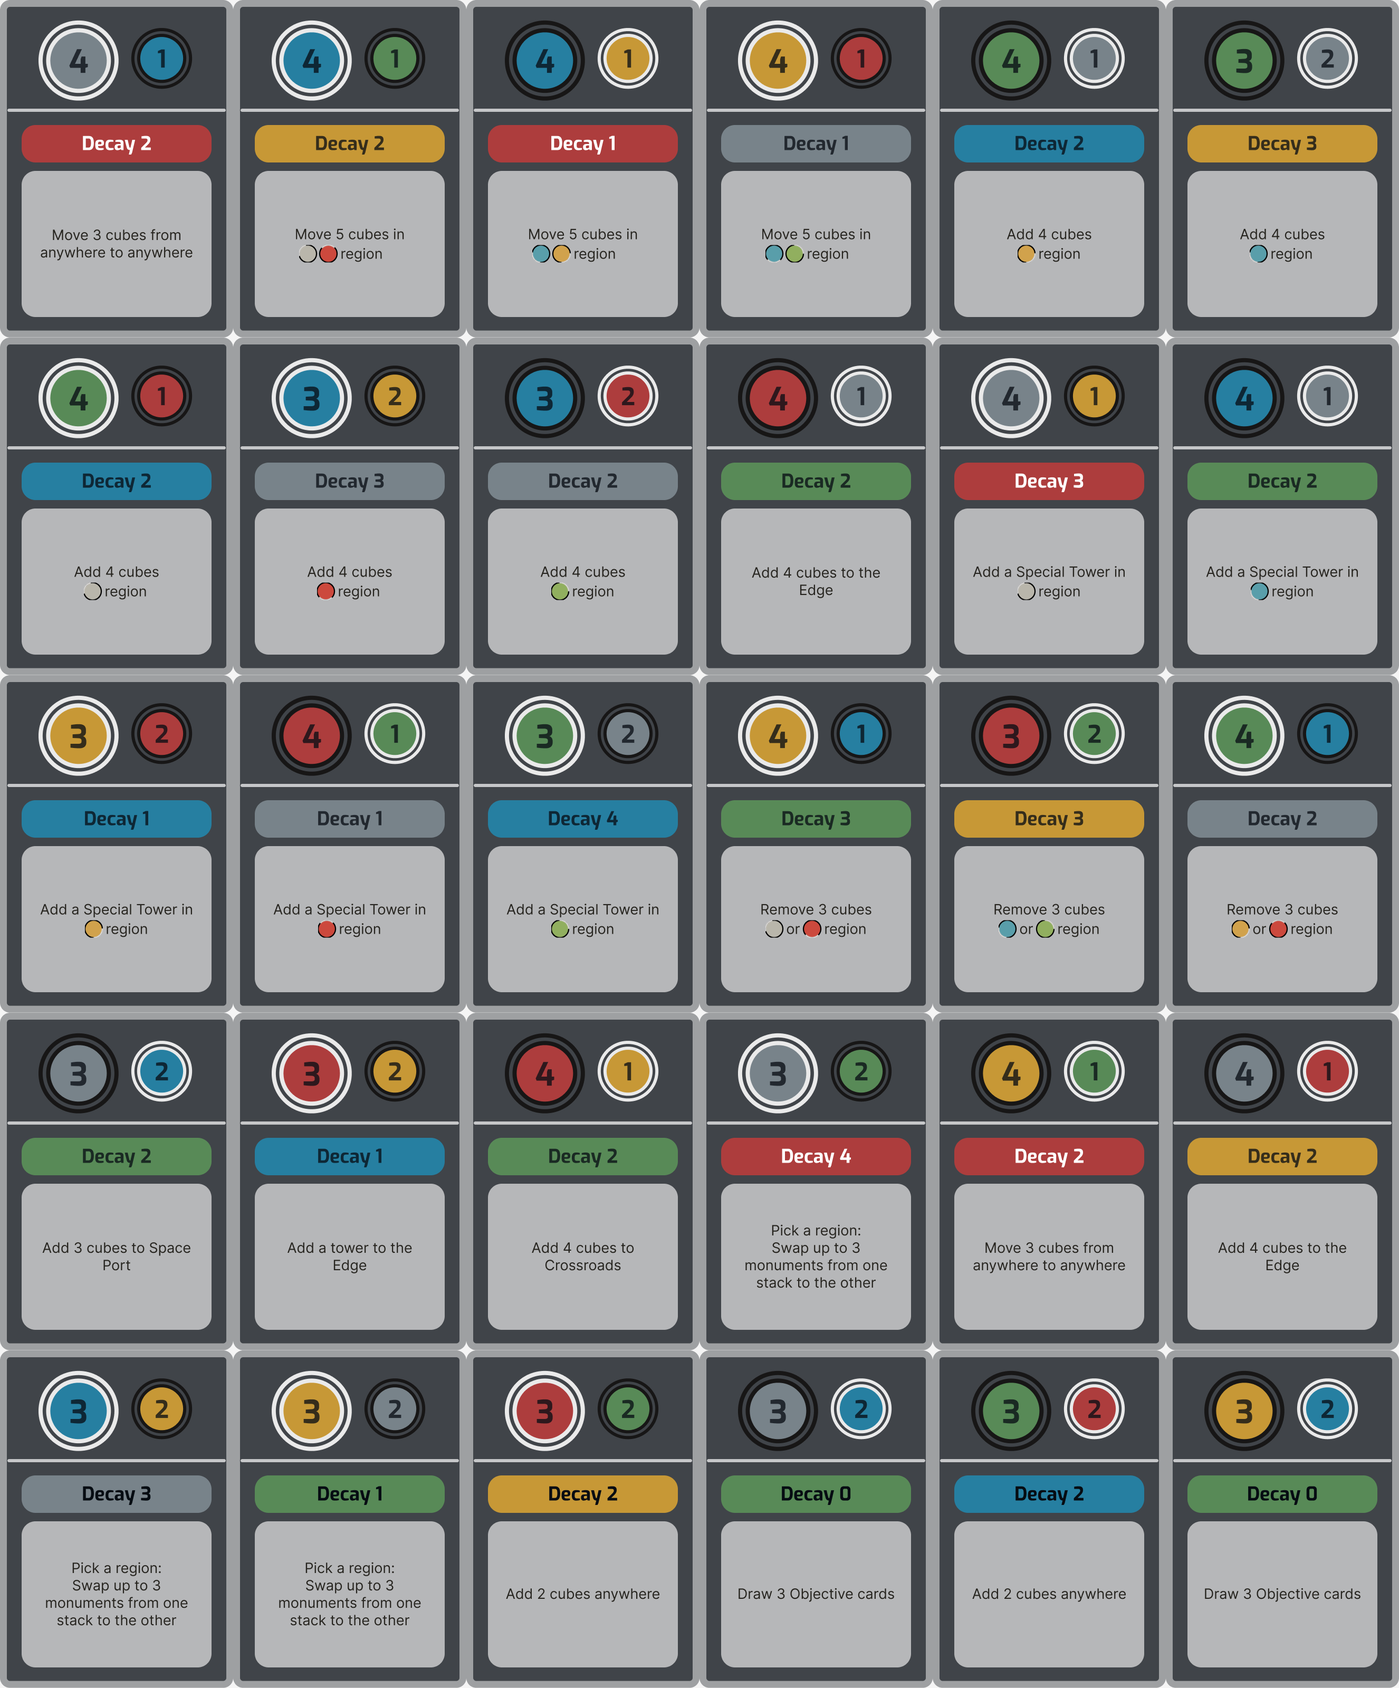
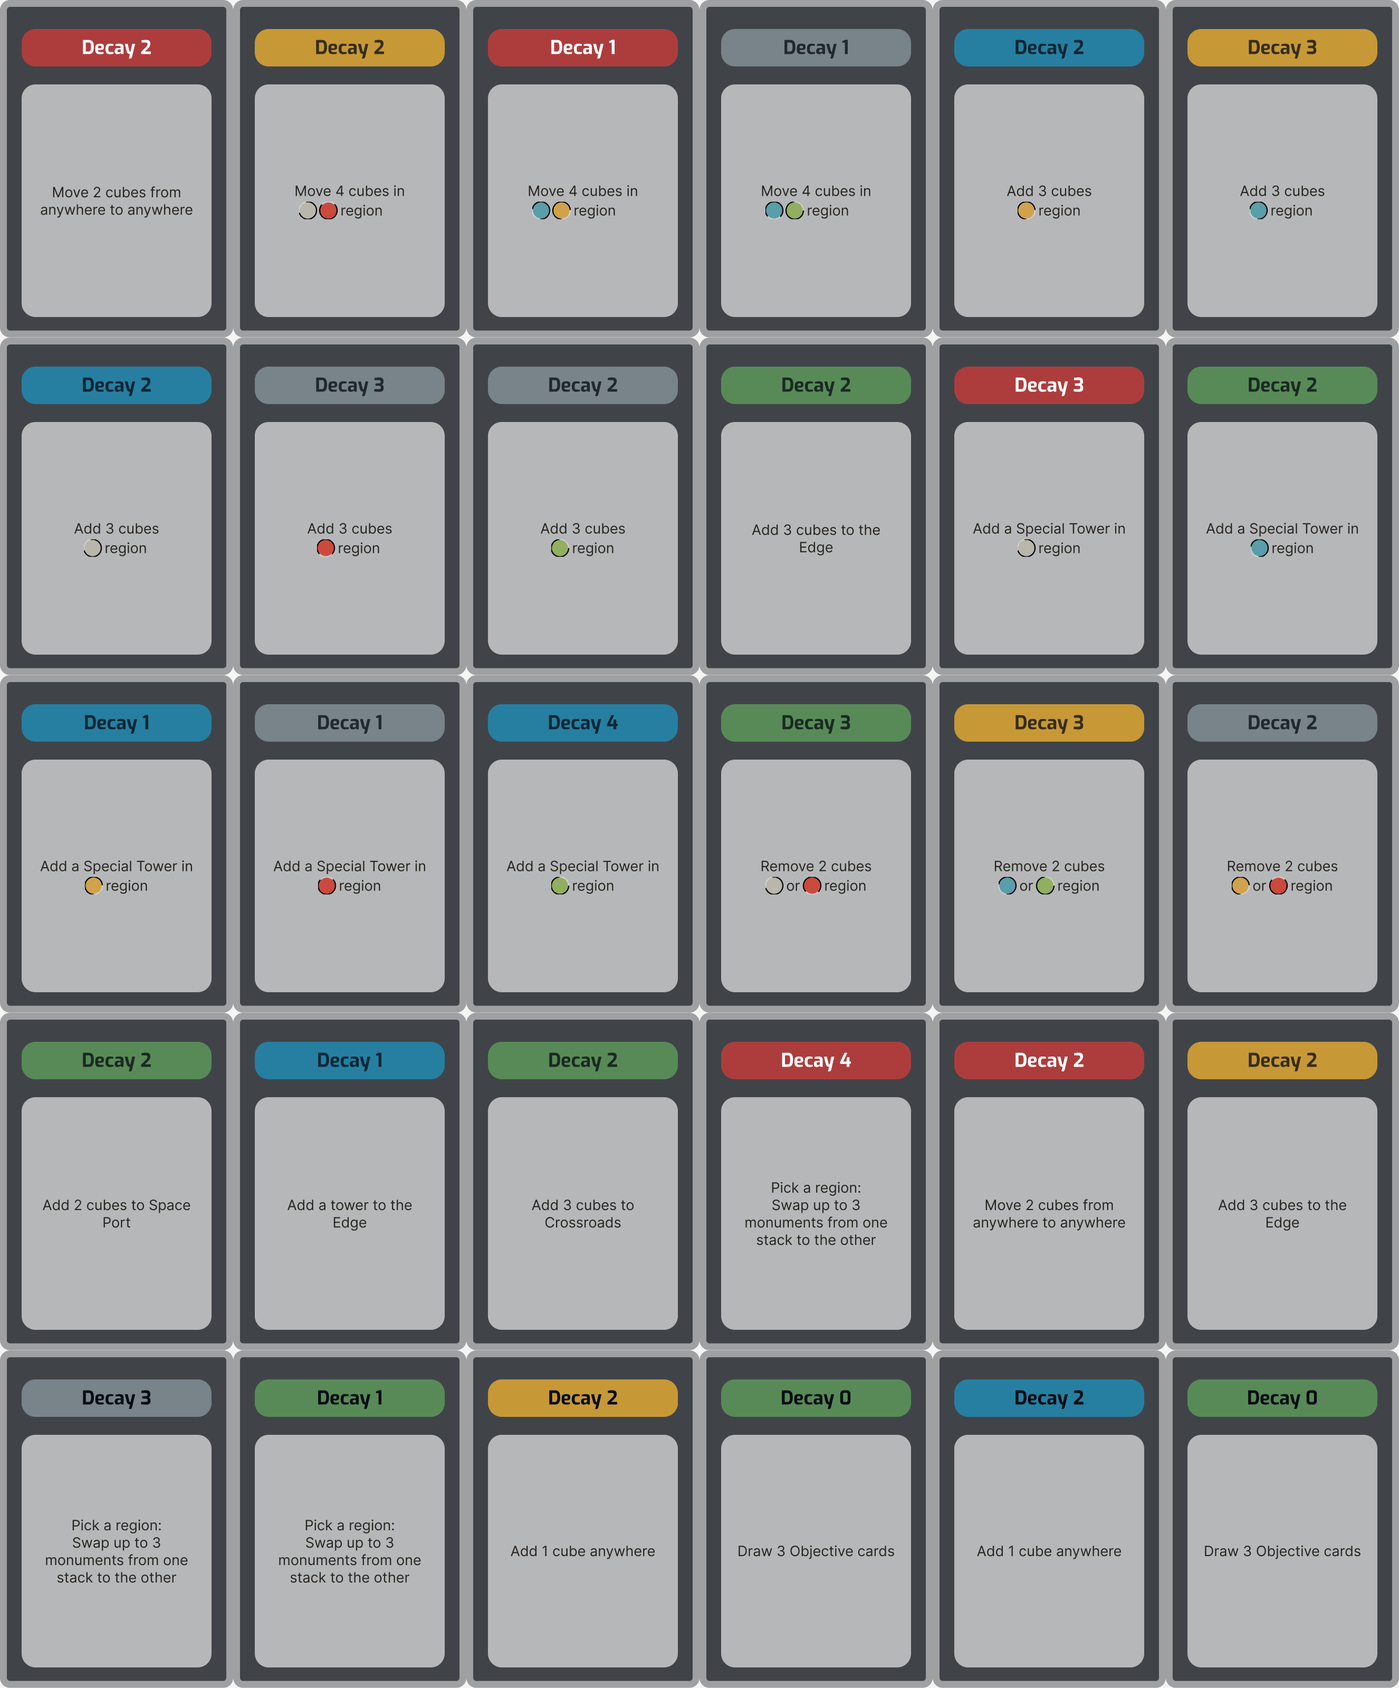
Publish Page 7 assets and four dice textures

diff --git a/docs/catalog.js b/docs/catalog.js
@@ -1,1 +1,1 @@
-window.FRONTIER_CATALOG = {"source": "Figma Page 6 Game components slice 663:2418", "boards": [{"title": "Main board", "figmaId": "663:2534", "path": "assets/boards/board-main-e46ceed54f.png", "width": 4096, "height": 2960, "revision": "1a46714353"}], "cards": [{"title": "Action Guide", "figmaId": "663:686", "path": "assets/cards/card-action-guide-6323e6fee4.png", "width": 506, "height": 729, "revision": "32b6b7b4d4"}, {"title": "Region Bonus Guide", "figmaId": "663:736", "path": "assets/cards/card-region-bonus-guide-800eb32bd9.png", "width": 759, "height": 1098, "revision": "9f711bb71c"}], "references": [], "decks": [{"title": "Monuments", "figmaId": "663:1580", "count": 30, "columns": 6, "rows": 5, "cardWidth": 442, "cardHeight": 640, "face": {"path": "assets/decks/monuments-faces-d44fdccb0e.png", "width": 2652, "height": 3200, "revision": "c99434280e"}, "back": {"path": "assets/decks/monuments-back-a65fba90e2.png", "width": 442, "height": 640, "revision": "abfd3f1891"}}, {"title": "Objectives", "figmaId": "663:767", "count": 18, "columns": 6, "rows": 3, "cardWidth": 388, "cardHeight": 519, "face": {"path": "assets/decks/objectives-faces-4d91a50427.png", "width": 2328, "height": 1557, "revision": "32e56861a8"}, "back": {"path": "assets/decks/objectives-back-c08c78cc67.png", "width": 388, "height": 519, "revision": "cc7db17312"}}, {"title": "Specials", "figmaId": "663:2266", "count": 19, "columns": 5, "rows": 4, "cardWidth": 443, "cardHeight": 704, "face": {"path": "assets/decks/specials-faces-adc1172863.png", "width": 2215, "height": 2816, "revision": "25ad4c82e8"}, "back": {"path": "assets/decks/specials-back-0b946676e3.png", "width": 443, "height": 704, "revision": "a348395311"}}], "tokens": [{"title": "Build 4", "figmaId": "663:652", "path": "assets/tokens/action-tile-1-fb100c9aa5.png", "width": 426, "height": 426, "revision": "989ae47648"}, {"title": "Region Bonus", "figmaId": "663:683", "path": "assets/tokens/action-tile-2-7107aa55c8.png", "width": 426, "height": 426, "revision": "649b646ee8"}, {"title": "Build 3 — Blue", "figmaId": "663:508", "path": "assets/tokens/action-tile-3.png", "width": 427, "height": 427, "revision": "c6c06dbd7d"}, {"title": "Action Upgrade +2", "figmaId": "663:677", "path": "assets/tokens/action-tile-6-813e8438d5.png", "width": 426, "height": 426, "revision": "d2a8f29a2f"}, {"title": "Build 3", "figmaId": "663:486", "path": "assets/tokens/action-tile-7-7d3d7a7703.png", "width": 426, "height": 426, "revision": "d137d4bdfe"}, {"title": "Move — Blue Yellow Gray", "figmaId": "663:574", "path": "assets/tokens/action-tile-9.png", "width": 427, "height": 427, "revision": "3d2c6d9614"}, {"title": "Build 3 — Gray", "figmaId": "663:530", "path": "assets/tokens/action-tile-11.png", "width": 427, "height": 427, "revision": "2529bdb0a3"}, {"title": "Build 3 — Red", "figmaId": "663:552", "path": "assets/tokens/action-tile-12.png", "width": 427, "height": 427, "revision": "311d42f308"}, {"title": "Move — Blue Yellow", "figmaId": "663:600", "path": "assets/tokens/action-tile-13.png", "width": 427, "height": 427, "revision": "1b44f97706"}, {"title": "Move — Yellow Red", "figmaId": "663:626", "path": "assets/tokens/action-tile-14.png", "width": 427, "height": 427, "revision": "d6157b7006"}]};
+window.FRONTIER_CATALOG = {"source": "Figma Page 7 Game components slice 688:2058", "boards": [{"title": "Main board", "figmaId": "688:2174", "path": "assets/boards/board-main-e46ceed54f.png", "width": 4096, "height": 2960, "revision": "1a46714353"}], "cards": [{"title": "Action Guide", "figmaId": "688:780", "path": "assets/cards/card-action-guide-6323e6fee4.png", "width": 506, "height": 729, "revision": "32b6b7b4d4"}, {"title": "Region Bonus Guide", "figmaId": "688:830", "path": "assets/cards/card-region-bonus-guide-800eb32bd9.png", "width": 759, "height": 1098, "revision": "9f711bb71c"}], "references": [], "decks": [{"title": "Monuments", "figmaId": "688:1220", "count": 30, "columns": 6, "rows": 5, "cardWidth": 442, "cardHeight": 640, "face": {"path": "assets/decks/monuments-faces-d44fdccb0e.png", "width": 2652, "height": 3200, "revision": "47f2ccde81"}, "back": {"path": "assets/decks/monuments-back-a65fba90e2.png", "width": 442, "height": 640, "revision": "abfd3f1891"}}, {"title": "Objectives", "figmaId": "688:861", "count": 18, "columns": 6, "rows": 3, "cardWidth": 388, "cardHeight": 519, "face": {"path": "assets/decks/objectives-faces-4d91a50427.png", "width": 2328, "height": 1557, "revision": "32e56861a8"}, "back": {"path": "assets/decks/objectives-back-c08c78cc67.png", "width": 388, "height": 519, "revision": "cc7db17312"}}, {"title": "Specials", "figmaId": "688:1906", "count": 19, "columns": 5, "rows": 4, "cardWidth": 443, "cardHeight": 704, "face": {"path": "assets/decks/specials-faces-adc1172863.png", "width": 2215, "height": 2816, "revision": "25ad4c82e8"}, "back": {"path": "assets/decks/specials-back-0b946676e3.png", "width": 443, "height": 704, "revision": "a348395311"}}], "dice": [{"title": "Dice 1", "figmaId": "688:2775", "path": "assets/dice/dice-1.png", "width": 1503, "height": 1503, "revision": "b23382c1e4"}, {"title": "Dice 2", "figmaId": "688:2809", "path": "assets/dice/dice-2.png", "width": 1503, "height": 1503, "revision": "8b0fe6a44d"}, {"title": "Dice 3", "figmaId": "688:2792", "path": "assets/dice/dice-3.png", "width": 1503, "height": 1503, "revision": "05e558f09b"}, {"title": "Dice 4", "figmaId": "688:2826", "path": "assets/dice/dice-4.png", "width": 1503, "height": 1503, "revision": "f71669f88a"}], "tokens": [{"title": "Build 4", "figmaId": "688:752", "path": "assets/tokens/action-tile-1-fb100c9aa5.png", "width": 426, "height": 426, "revision": "989ae47648"}, {"title": "Region Bonus", "figmaId": "688:777", "path": "assets/tokens/action-tile-2-7107aa55c8.png", "width": 426, "height": 426, "revision": "649b646ee8"}, {"title": "Build 3 — Blue", "figmaId": "688:608", "path": "assets/tokens/action-tile-3.png", "width": 427, "height": 427, "revision": "c6c06dbd7d"}, {"title": "Action Upgrade +2", "figmaId": "688:774", "path": "assets/tokens/action-tile-6-813e8438d5.png", "width": 426, "height": 426, "revision": "d2a8f29a2f"}, {"title": "Build 3", "figmaId": "688:586", "path": "assets/tokens/action-tile-7-7d3d7a7703.png", "width": 426, "height": 426, "revision": "d137d4bdfe"}, {"title": "Move — Blue Yellow Gray", "figmaId": "688:674", "path": "assets/tokens/action-tile-9.png", "width": 427, "height": 427, "revision": "3d2c6d9614"}, {"title": "Build 3 — Gray", "figmaId": "688:630", "path": "assets/tokens/action-tile-11.png", "width": 427, "height": 427, "revision": "2529bdb0a3"}, {"title": "Build 3 — Red", "figmaId": "688:652", "path": "assets/tokens/action-tile-12.png", "width": 427, "height": 427, "revision": "311d42f308"}, {"title": "Move — Blue Yellow", "figmaId": "688:700", "path": "assets/tokens/action-tile-13.png", "width": 427, "height": 427, "revision": "1b44f97706"}, {"title": "Move — Yellow Red", "figmaId": "688:726", "path": "assets/tokens/action-tile-14.png", "width": 427, "height": 427, "revision": "d6157b7006"}]};

diff --git a/docs/index.html b/docs/index.html
@@ -6,8 +6,8 @@
   <meta name="theme-color" content="#12171c">
   <title>Frontier · Tabletop Simulator assets</title>
   <link rel="stylesheet" href="styles.css?v=3">
-  <script defer src="catalog.js?v=035543eedf"></script>
-  <script defer src="app.js?v=7"></script>
+  <script defer src="catalog.js?v=bb110ff5ae"></script>
+  <script defer src="app.js?v=8"></script>
 </head>
 <body>
   <header class="site-header">
@@ -27,7 +27,7 @@
     </section>
     <div class="notice" id="local-notice" hidden>This is a local preview. The current assets are published on the <a href="https://iv-studio.github.io/FrontierGame/">Frontier GitHub site</a>.</div>
     <nav class="section-nav" aria-label="Asset categories">
-      <a href="#decks">Decks</a><a href="#boards">Boards</a><a href="#cards">Cards</a><a href="#tokens">Tokens</a>
+      <a href="#decks">Decks</a><a href="#boards">Boards</a><a href="#cards">Cards</a><a href="#dice">Dice</a><a href="#tokens">Tokens</a>
     </nav>
     <section class="asset-section" id="decks" aria-labelledby="decks-title">
       <div class="section-head"><div><p class="eyebrow">01 / CARD SHEETS</p><h2 id="decks-title">Decks</h2></div><p>Use the face and back URLs for a Custom Deck. Set Width, Height, and Number to the values shown.</p></div>
@@ -41,12 +41,16 @@
       <div class="section-head"><div><p class="eyebrow">03 / INDIVIDUAL CARDS</p><h2 id="cards-title">Cards</h2></div><p>Click a URL field to select it, then press Ctrl+C if the Copy button does not paste.</p></div>
       <div id="card-list" class="asset-grid"></div>
     </section>
+    <section class="asset-section" id="dice" aria-labelledby="dice-title">
+      <div class="section-head"><div><p class="eyebrow">04 / DICE TEXTURES</p><h2 id="dice-title">Dice</h2></div><p>Use each image URL for its matching custom die in Tabletop Simulator.</p></div>
+      <div id="dice-list" class="asset-grid dice-grid"></div>
+    </section>
     <section class="asset-section" id="tokens" aria-labelledby="tokens-title">
-      <div class="section-head"><div><p class="eyebrow">04 / PLAY PIECES</p><h2 id="tokens-title">Tokens</h2></div><p>Each action tile has its own image URL.</p></div>
+      <div class="section-head"><div><p class="eyebrow">05 / PLAY PIECES</p><h2 id="tokens-title">Tokens</h2></div><p>Each action tile has its own image URL.</p></div>
       <div id="token-list" class="asset-grid token-grid"></div>
     </section>
   </main>
-  <footer><span>Frontier · Game components</span><span>Source artwork: <a href="https://www.figma.com/design/Pe6o98Z2YYYgNB8kH33Pgl/Frontier?node-id=663-2418" target="_blank" rel="noopener">Figma slice ↗</a></span></footer>
+  <footer><span>Frontier · Game components</span><span>Source artwork: <a href="https://www.figma.com/design/Pe6o98Z2YYYgNB8kH33Pgl/Frontier?node-id=688-2058" target="_blank" rel="noopener">Figma slice ↗</a></span></footer>
   <div class="toast" id="toast" role="status" aria-live="polite"></div>
 </body>
 </html>

diff --git a/docs/styles.css b/docs/styles.css
@@ -7,4 +7,6 @@ main{padding-bottom:96px}.intro{display:flex;align-items:end;justify-content:spa
 @media(max-width:900px){.deck-card{grid-template-columns:1fr}.deck-art{min-height:260px}.asset-grid,.token-grid{grid-template-columns:repeat(2,minmax(0,1fr))}.intro{align-items:start}.summary{min-width:200px}}
 @media(max-width:620px){.header-inner,main,footer{padding-left:18px;padding-right:18px}.header-tag{display:none}.intro{display:block;padding-top:42px}.intro-copy{font-size:16px}.summary{margin-top:28px}.section-head{display:block}.section-head p:last-child{margin-top:10px}.section-nav{overflow:auto}.asset-grid,.token-grid{grid-template-columns:1fr}.deck-info{padding:20px}.deck-title-row h3{font-size:23px}footer{display:block}footer span{display:block;margin-top:8px}}
 .asset-art{overflow:hidden}.asset-grid:not(.token-grid) .asset-art img{height:100%;width:auto;min-height:0;min-width:0}
+.dice-grid{grid-template-columns:repeat(2,minmax(0,1fr))}.dice-grid .asset-art{height:300px}
+@media(max-width:620px){.dice-grid{grid-template-columns:1fr}}
 #reference-list{grid-template-columns:1fr}#reference-list .asset-art{height:auto;padding:24px}#reference-list .asset-art img{width:min(100%,920px);height:auto;max-height:none}

diff --git a/docs/app.js b/docs/app.js
@@ -86,12 +86,13 @@
   }
   for (const deck of catalog.decks) document.getElementById('deck-list').append(renderDeck(deck));
   for (const [key, target] of [['boards', 'board-list'], ['cards', 'card-list'],
-                               ['tokens', 'token-list']]) {
-    for (const asset of catalog[key]) document.getElementById(target).append(renderSingle(asset));
+                               ['dice', 'dice-list'], ['tokens', 'token-list']]) {
+    for (const asset of catalog[key] || []) document.getElementById(target).append(renderSingle(asset));
   }
   const summary = document.getElementById('summary');
   for (const [value, label] of [[catalog.decks.length, 'Decks'], [catalog.boards.length, 'Boards'],
-                                 [catalog.cards.length, 'Single cards'], [catalog.tokens.length, 'Tokens']]) {
+                                 [catalog.cards.length, 'Single cards'], [catalog.dice.length, 'Dice'],
+                                 [catalog.tokens.length, 'Tokens']]) {
     const item = el('div', 'summary-item');
     item.append(el('strong', '', String(value)), el('span', '', label));
     summary.append(item);

diff --git a/scripts/build_assets.py b/scripts/build_assets.py
@@ -22,7 +22,7 @@ SOURCE = ROOT / "tmp" / "figma-export"
 ASSETS = ROOT / "docs" / "assets"
 DOCS = ROOT / "docs"
 ARCHIVE = ROOT / "archive" / "assets"
-# Three Page 6 Monument cards have small manual x offsets.
+# Three Monument cards have small manual x offsets.
 CARD_X_OFFSETS = {"monuments": {26: 4, 27: 4, 28: 8}}
 
 
@@ -165,28 +165,28 @@ def individual_sheet(name: str, count: int, columns: int, rows: int,
 def main() -> None:
     DOCS.mkdir(exist_ok=True)
     publish = Publisher()
-    catalog = {"source": "Figma Page 6 Game components slice 663:2418", "boards": [],
-               "cards": [], "references": [], "decks": [], "tokens": []}
+    catalog = {"source": "Figma Page 7 Game components slice 688:2058", "boards": [],
+               "cards": [], "references": [], "decks": [], "dice": [], "tokens": []}
 
     for slug, title, figma_id in [
-        ("board-main", "Main board", "663:2534"),
+        ("board-main", "Main board", "688:2174"),
     ]:
         catalog["boards"].append({"title": title, "figmaId": figma_id,
                                    **publish(load(slug), "boards", slug)})
 
     for slug, title, figma_id in [
-        ("card-action-guide", "Action Guide", "663:686"),
-        ("card-region-bonus-guide", "Region Bonus Guide", "663:736"),
+        ("card-action-guide", "Action Guide", "688:780"),
+        ("card-region-bonus-guide", "Region Bonus Guide", "688:830"),
     ]:
         catalog["cards"].append({"title": title, "figmaId": figma_id,
                                   **publish(load(slug), "cards", slug)})
 
     deck_specs = [
-        ("monuments", "monuments", "Monuments", "663:1580", 30, 6, (0, 0), (482, 680),
+        ("monuments", "monuments", "Monuments", "688:1220", 30, 6, (0, 0), (482, 680),
          (442, 640), 6, 5, "back-monument", 0),
-        ("objectives", "objectives", "Objectives", "663:767", 18, 6, (196, 140), (420, 551),
+        ("objectives", "objectives", "Objectives", "688:861", 18, 6, (196, 140), (420, 551),
          (388, 519), 6, 3, "back-objective", 0),
-        ("specials", "specials", "Specials", "663:2266", 19, 4, (0, 0), (492, 734),
+        ("specials", "specials", "Specials", "688:1906", 19, 4, (0, 0), (492, 734),
          (443, 704), 5, 4, "back-special", 0),
     ]
     for (slug, asset_slug, title, figma_id, count, source_columns, origin, stride,
@@ -205,21 +205,30 @@ def main() -> None:
                                   **packed, "face": face, "back": back_asset})
 
     action_tiles = [
-        ("action-tile-1", "Build 4", "663:652", "page6-tile-652"),
-        ("action-tile-2", "Region Bonus", "663:683", "page6-tile-683"),
-        ("action-tile-3", "Build 3 — Blue", "663:508", "page6-tile-508"),
-        ("action-tile-6", "Action Upgrade +2", "663:677", "page6-tile-677"),
-        ("action-tile-7", "Build 3", "663:486", "page6-tile-486"),
-        ("action-tile-9", "Move — Blue Yellow Gray", "663:574", "page6-tile-574"),
-        ("action-tile-11", "Build 3 — Gray", "663:530", "page6-tile-530"),
-        ("action-tile-12", "Build 3 — Red", "663:552", "page6-tile-552"),
-        ("action-tile-13", "Move — Blue Yellow", "663:600", "page6-tile-600"),
-        ("action-tile-14", "Move — Yellow Red", "663:626", "page6-tile-626"),
+        ("action-tile-1", "Build 4", "688:752", "page7-tile-752"),
+        ("action-tile-2", "Region Bonus", "688:777", "page7-tile-777"),
+        ("action-tile-3", "Build 3 — Blue", "688:608", "page7-tile-608"),
+        ("action-tile-6", "Action Upgrade +2", "688:774", "page7-tile-774"),
+        ("action-tile-7", "Build 3", "688:586", "page7-tile-586"),
+        ("action-tile-9", "Move — Blue Yellow Gray", "688:674", "page7-tile-674"),
+        ("action-tile-11", "Build 3 — Gray", "688:630", "page7-tile-630"),
+        ("action-tile-12", "Build 3 — Red", "688:652", "page7-tile-652"),
+        ("action-tile-13", "Move — Blue Yellow", "688:700", "page7-tile-700"),
+        ("action-tile-14", "Move — Yellow Red", "688:726", "page7-tile-726"),
     ]
     for slug, title, figma_id, source in action_tiles:
         catalog["tokens"].append({"title": title,
                                   "figmaId": figma_id,
                                   **publish(load(source), "tokens", slug)})
+
+    for slug, title, figma_id in [
+        ("dice-1", "Dice 1", "688:2775"),
+        ("dice-2", "Dice 2", "688:2809"),
+        ("dice-3", "Dice 3", "688:2792"),
+        ("dice-4", "Dice 4", "688:2826"),
+    ]:
+        catalog["dice"].append({"title": title, "figmaId": figma_id,
+                                **publish(load(slug), "dice", slug)})
 
     retired = publish.retire_unlisted()
 
@@ -235,7 +244,8 @@ def main() -> None:
     index.write_text(html, encoding="utf-8")
     print(f"Built {len(catalog['decks'])} decks, {len(catalog['boards'])} boards, "
           f"{len(catalog['cards'])} cards, {len(catalog['references'])} references, "
-          f"{len(catalog['tokens'])} tokens; retired {len(retired)} old images")
+          f"{len(catalog['dice'])} dice, {len(catalog['tokens'])} tokens; "
+          f"retired {len(retired)} old images")
 
 
 if __name__ == "__main__":

diff --git a/README.md b/README.md
@@ -1,6 +1,6 @@
 # Frontier Tabletop Simulator assets
 
-The [Page 6 Game components slice in Figma](https://www.figma.com/design/Pe6o98Z2YYYgNB8kH33Pgl/Frontier?node-id=663-2418) defines the playable export set. The static catalog is in `docs/`; GitHub Pages publishes that folder. It provides direct PNG links for Tabletop Simulator and deck import settings.
+The [Page 7 Game components slice in Figma](https://www.figma.com/design/Pe6o98Z2YYYgNB8kH33Pgl/Frontier?node-id=688-2058) defines the playable export set. The static catalog is in `docs/`; GitHub Pages publishes that folder. It provides direct PNG links for Tabletop Simulator and deck import settings.
 
 Current export:
 
@@ -10,11 +10,11 @@ Current export:
 | Objectives | 18 | 6 | 3 | Objective card back |
 | Specials | 19 | 5 | 4 | Special Card back |
 
-There is one main board, two standalone guide cards, and ten action tiles. Each deck sheet has no spacing between card bounds. The 19-card Special sheet has one unused slot. Set **Back is Hidden** on when importing a deck into TTS.
+There is one main board, two standalone guide cards, four dice textures, and ten action tiles. Each deck sheet has no spacing between card bounds. The 19-card Special sheet has one unused slot. Set **Back is Hidden** on when importing a deck into TTS.
 
 ## Refreshing the exports
 
-1. Render the current contents of the Figma slice into `tmp/figma-export/`. Export monument and objective frames, each special card, the board, backs, guides, and action tiles. The Figma node IDs and names are recorded in `docs/catalog.json` and `scripts/build_assets.py`.
+1. Render the current contents of the Figma slice into `tmp/figma-export/`. Export monument and objective frames, each special card, the board, backs, guides, dice, and action tiles. The Figma node IDs and names are recorded in `docs/catalog.json` and `scripts/build_assets.py`.
 2. Run `scripts/build_assets.py` with Python and Pillow. This packs the card groups, copies individual assets, and regenerates `docs/catalog.json` and `docs/catalog.js`.
 3. Review the deck previews and counts, then commit and push `docs/` and `archive/` to GitHub. GitHub Pages serves the landing page and current image files.
 
